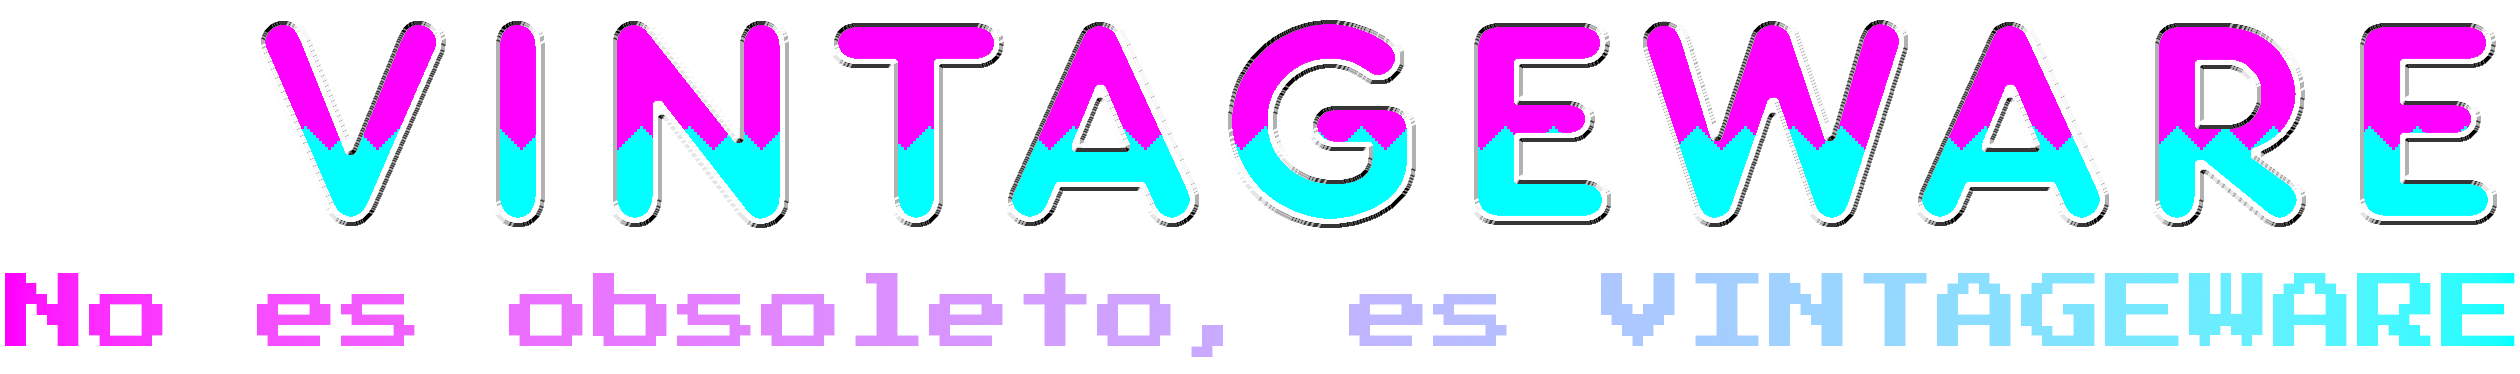
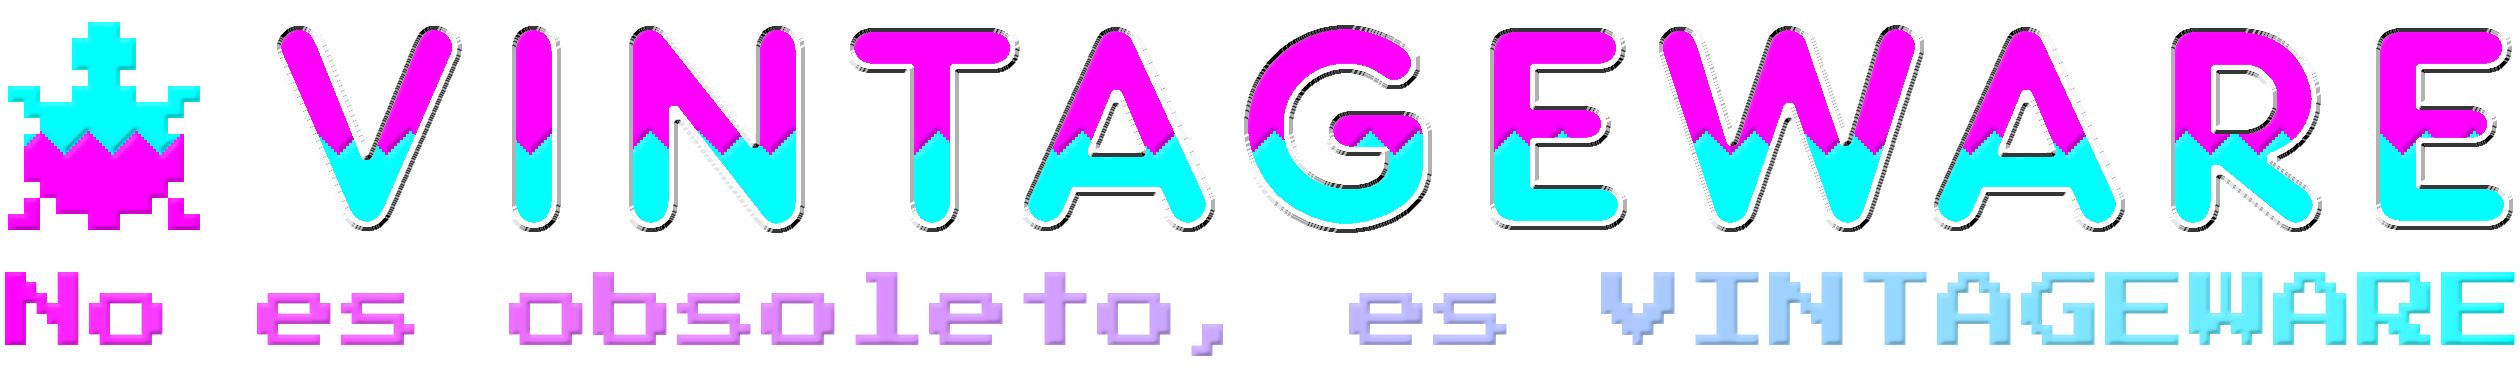
Gráficos de header modificados, se agregó biselado a bordes de botones y h1

diff --git a/style.css b/style.css
@@ -75,17 +75,64 @@ main {
 }
 
 /* Título de la página (inicio, producto, contacto y ubicación) */
+/*
 h1 {
     text-shadow: -4px 4px 2px rgba(0, 0, 0, 0.7); 
     background-color: rgba(255, 0, 255, .5);
     border: 4px solid rgba(0, 255, 255, .75); 
-    /*border-radius: 0.5rem; */
     padding: 1em 1em;
     display: flexbox;
     flex-grow: 1;
     font-size: 1.5rem; 
 }
+*/
+h1 {
+    text-shadow: -4px 4px 2px rgba(0, 0, 0, 0.7); 
+    background-color: rgba(255, 0, 255, 0.5);
+    border: 4px solid rgba(0, 255, 255, 0.75); 
+    padding: 1em;
+    position: relative; /* Necesario para el posicionamiento del pseudo-elemento */
+    font-size: 1.5rem; 
+}
 
+/* Intento de "biselado" */
+/*
+h1::after {
+    content: '';
+    position: absolute;
+    top: -.01rem;
+    bottom: -.01rem;
+    left: -.0275rem; 
+    right: -.0275rem;
+    border-radius: 0px; 
+    z-index: -1;
+    box-shadow: 0 0 0.3rem rgba(0, 0, 0, 1); 
+    
+}
+*/
+h1::after {
+    content: '';
+    position: absolute;
+    top: 0px;
+    bottom: 0px;
+    left: 0px; 
+    right: 0px;
+    border-radius: 0px; 
+    z-index: 1;
+    box-shadow: 0 0 4px  rgba(0, 0, 0, 1); 
+}
+
+
+/*
+border: 5px solid #ccc;
+padding: 20px;
+background-color: #fff; 
+border-radius: 10px; 
+box-shadow: 
+    5px 5px 0 #aaa, 
+    -5px -5px 0 #fff;
+*/    
+    
 /* Subtítulo si hay textyo */
 /*
 h2 {
@@ -128,7 +175,7 @@ nav ul {
     display: flex; 
 }
 
-/* Le da formato a cada botón de la lista */ 
+/* Le da formato a cada botón de la lista del menú principal */ 
 /*
 nav li a {
     margin: 0 2rem;     
@@ -156,6 +203,19 @@ nav li a {
     transition: background-color 0.3s ease; 
     width: 10rem; 
     text-align: center; 
+}
+
+/* Intento de "biselado" para los boteones del menú principal */
+nav li a::after {
+    content: '';
+    position: absolute;
+    top: 0px;
+    bottom: 0px;
+    left: 0px; 
+    right: 0px;
+    border-radius: 0.5rem;
+    z-index: 1;
+    box-shadow: 0 0 4px  rgba(0, 0, 0, .5); 
 }
 
 
